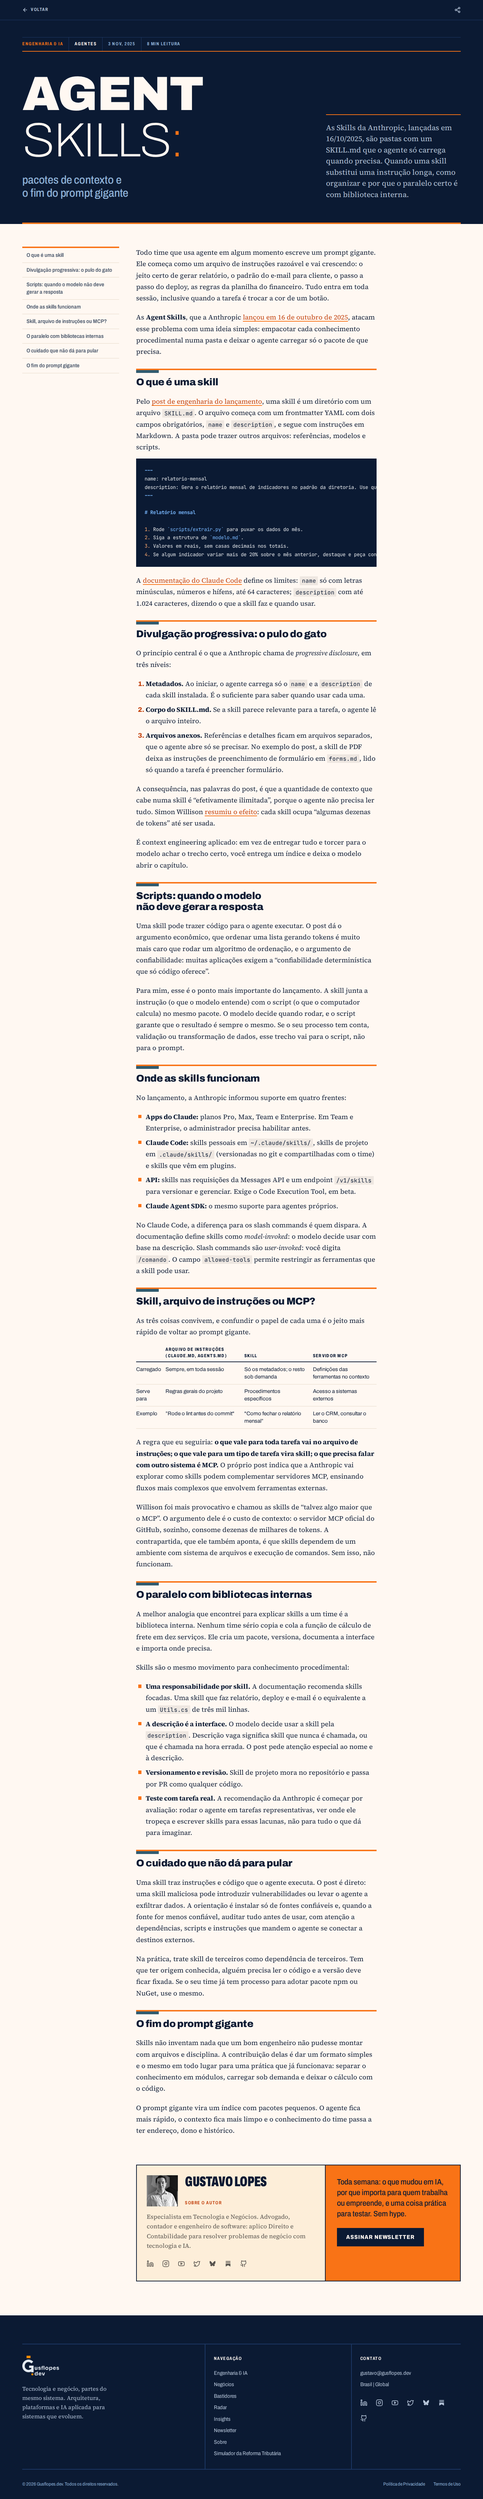
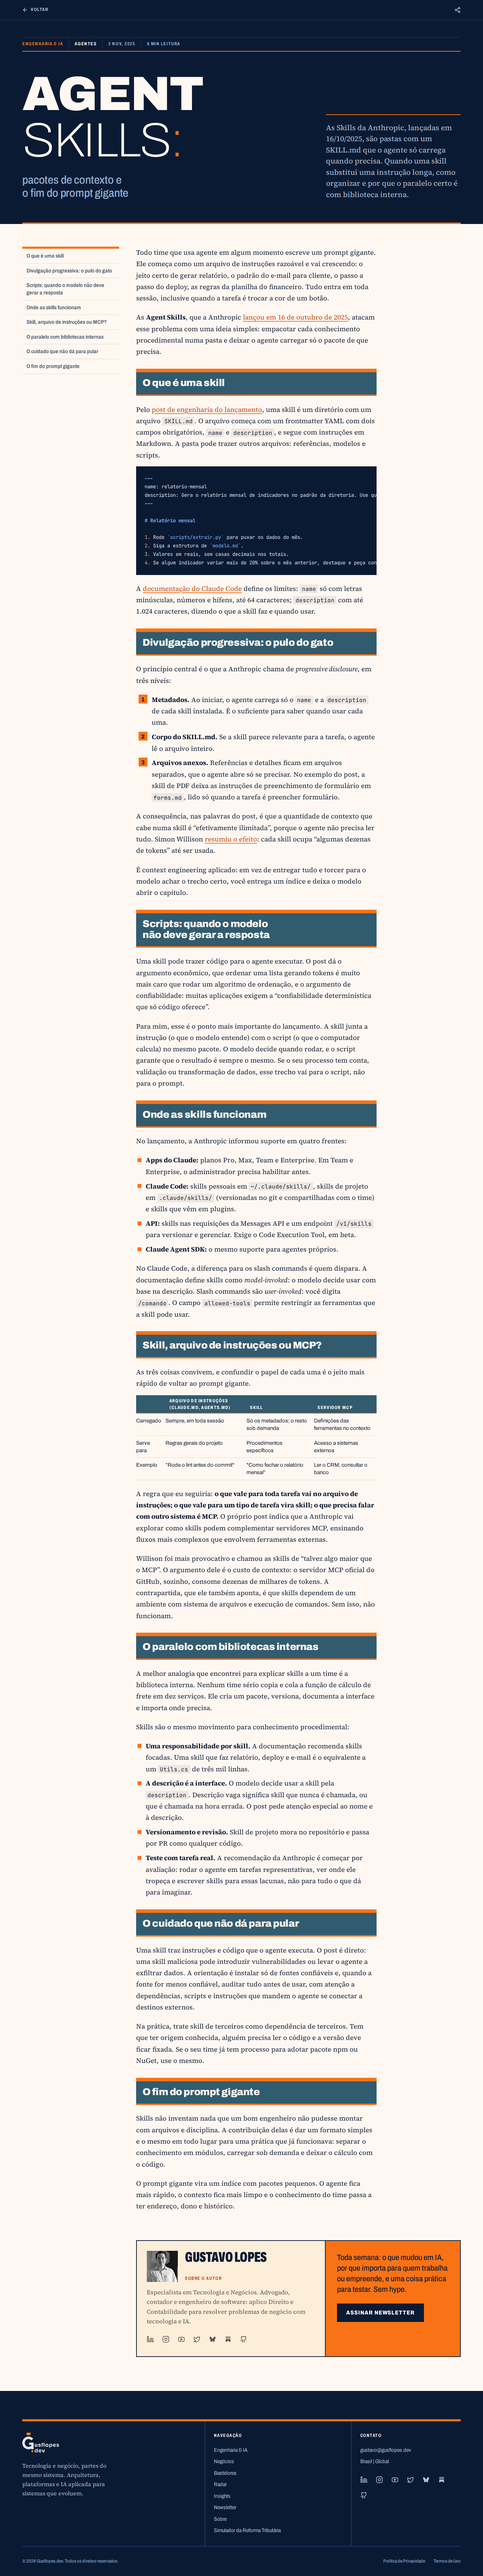
fix(design): cor do quadro e laranja no corpo do artigo
- H2 do artigo como célula no campo do quadro do eixo (o título é o conteúdo), topo laranja
  de 10px (8px no celular) e base de 4px; cabeçalho das tabelas no mesmo campo.
- Listas numeradas com número em chip laranja (azul-escuro sobre #F97316); marcadores maiores.
- Sumário: filete e topo do item corrente em 6px.
- Rodapé sem a célula da newsletter ganha filete laranja de 6px no topo.

Claude-Session: https://claude.ai/code/session_01G5QirRtrqW1g2QHV9fAH4M

Changed region(s): [[0.0307, 0.0, 0.9531, 0.9967], [0.0307, 0.9344, 0.2152, 0.9656]]

diff --git a/src/index.css b/src/index.css
@@ -535,31 +535,74 @@
     /* âncoras do sumário: o título não some sob a barra fixa de 56px */
     scroll-margin-top: 5rem;
   }
-  .leitura[data-eixo] :where(h2) {
-    border-top-width: 4px;
-  }
   /*
-   * Marca do eixo no H2 (rodada 5, revisão): um marco de cor estreito — barra de 4rem × 8px no
-   * campo do quadro do eixo do texto (EIXO_CAMPO em src/lib/eixos.ts), encostada embaixo do
-   * filete laranja de 4px, na ponta esquerda. Sem número: a ordem das seções já é a do texto.
+   * H2 como célula da grade (rodada 5, revisão 2): o título da seção é composto num campo chapado
+   * da cor do quadro do eixo do texto (EIXO_CAMPO em src/lib/eixos.ts), com topo laranja grosso.
+   * É conteúdo real (o título), não placa vazia nem número. Papel sobre petróleo escuro 7:1, sobre
+   * ferrugem 6,4:1; azul-escuro sobre ardósia clara 5,6:1. O cabeçalho das tabelas usa o mesmo campo.
    */
   .leitura[data-eixo] {
     --eixo-campo: var(--color-petroleo-escuro);
+    --eixo-texto: var(--papel);
   }
   .leitura[data-eixo="negocios"] {
     --eixo-campo: var(--color-ferrugem);
   }
   .leitura[data-eixo="bastidores"] {
     --eixo-campo: var(--color-ardosia-clara);
+    --eixo-texto: var(--azul);
   }
-  .leitura[data-eixo] :where(h2)::before {
-    content: "";
-    position: absolute;
-    top: 0;
-    left: 0;
-    width: 4rem;
-    height: 8px;
+  .leitura[data-eixo] :where(h2) {
     background: var(--eixo-campo);
+    color: var(--eixo-texto);
+    border-top: 8px solid var(--laranja);
+    padding: 0.55em 0.65em 0.6em;
+  }
+  @media (min-width: 1024px) {
+    .leitura[data-eixo] :where(h2) {
+      border-top-width: 10px;
+    }
+  }
+  .leitura[data-eixo] :where(h2) {
+    border-bottom: 4px solid var(--laranja);
+  }
+  /* Listas do artigo: número em chip laranja (azul-escuro sobre #F97316, 6,19:1); marcador quadrado maior. */
+  .leitura[data-eixo] :where(ol) {
+    list-style: none;
+    counter-reset: item;
+    padding-left: 2.3em;
+  }
+  .leitura[data-eixo] :where(ol > li) {
+    counter-increment: item;
+    position: relative;
+  }
+  .leitura[data-eixo] :where(ol > li)::before {
+    content: counter(item) / "";
+    position: absolute;
+    left: -2.3em;
+    top: 0.12em;
+    display: grid;
+    place-items: center;
+    width: 1.55em;
+    height: 1.55em;
+    background: var(--laranja);
+    color: var(--azul);
+    font-family: var(--font-sans);
+    font-weight: 800;
+    font-size: 0.85em;
+    font-variant-numeric: tabular-nums;
+  }
+  .leitura[data-eixo] :where(ul > li)::before {
+    width: 0.6em;
+    height: 0.6em;
+    top: 0.55em;
+    left: -1.2em;
+  }
+  .leitura[data-eixo] :where(thead th) {
+    background: var(--eixo-campo);
+    color: var(--eixo-texto);
+    border-bottom-color: var(--laranja);
+    padding-left: 0.8em;
   }
   .leitura :where(h3) {
     font-family: var(--font-sans);

diff --git a/src/components/Footer.tsx b/src/components/Footer.tsx
@@ -10,13 +10,14 @@ const link = 'text-ceu-claro hover:text-papel transition-colors';
  * Rodapé: grade de células azul com filetes azul-3 (o fundo nos vãos de 2px). A newsletter é uma
  * célula de creme com filete laranja de 6px no topo e só o botão chapado; onde ela existe, abre o
  * rodapé (no celular vem primeiro: claro → creme → azul). Nas páginas que já terminam com o plano
- * laranja da newsletter (textos e /newsletter) ela é omitida, para a mesma chamada não se repetir.
+ * laranja da newsletter (textos e /newsletter) ela é omitida, para a mesma chamada não se repetir,
+ * e o filete laranja de 6px passa para o topo da grade (a costura claro → noite continua marcada).
  */
 export function Footer({ comNewsletter = true }: { comNewsletter?: boolean }) {
   return (
     <footer className="campo-azul pb-8">
       <div className={`moldura !px-0 md:!px-[var(--gutter)] pt-14 md:pt-20 ${comNewsletter ? 'max-md:!pt-0' : ''}`}>
-        <div className={`grid grid-cols-1 md:grid-cols-2 lg:grid-cols-12 gap-[2px] bg-azul-3 border-y-2 border-azul-3 mb-8 ${comNewsletter ? 'max-md:border-t-0' : ''}`}>
+        <div className={`grid grid-cols-1 md:grid-cols-2 lg:grid-cols-12 gap-[2px] bg-azul-3 border-y-2 border-azul-3 mb-8 ${comNewsletter ? 'max-md:border-t-0' : 'border-t-[6px] border-t-laranja'}`}>
           <div className={`bg-azul ${comNewsletter ? 'lg:col-span-4' : 'lg:col-span-5'} px-[var(--gutter)] md:px-0 md:pr-8 py-8`}>
             <img src={logoLight} alt="Gusflopes.dev" width={1028} height={556} loading="lazy" className="h-14 w-auto mb-6" />
             <p className="font-serif text-[1rem] leading-relaxed text-ceu-claro max-w-[36ch]">

diff --git a/src/components/pages/ArtigoLeitura.tsx b/src/components/pages/ArtigoLeitura.tsx
@@ -146,7 +146,7 @@ export function ArtigoLeitura({ title, excerpt, category, eixo, dateFormatted, d
             */}
             {secoes.length >= 2 && (
               <nav aria-label="Seções do texto" className="hidden lg:block lg:col-start-1 lg:col-span-3 lg:row-start-1">
-                <ol className="sticky top-[calc(56px+2.5rem)] border-t-4 border-laranja">
+                <ol className="sticky top-[calc(56px+2.5rem)] border-t-[6px] border-laranja">
                   {secoes.map((s) => {
                     const corrente = s.slug === ativa;
                     return (
@@ -156,7 +156,7 @@ export function ArtigoLeitura({ title, excerpt, category, eixo, dateFormatted, d
                           aria-current={corrente ? 'location' : undefined}
                           className={`block px-3 py-2.5 font-sans font-semibold [font-stretch:87%] text-[0.9375rem] leading-snug transition-colors ${
                             corrente
-                              ? `${EIXO_CAMPO[eixo].campo} ${EIXO_CAMPO[eixo].texto} relative before:absolute before:inset-x-0 before:top-0 before:h-1 before:bg-laranja`
+                              ? `${EIXO_CAMPO[eixo].campo} ${EIXO_CAMPO[eixo].texto} relative before:absolute before:inset-x-0 before:top-0 before:h-1.5 before:bg-laranja`
                               : 'text-tinta-2 hover:text-azul hover:bg-papel-3'
                           }`}
                         >

diff --git a/DESIGN.md b/DESIGN.md
@@ -188,7 +188,7 @@ Estratégia **papel dominante, azul estrutura, laranja distribuído, quadro em c
 ### Quadro (paleta de apoio, aprovada em 04/10)
 Só como **campo chapado de bordas retas**, sempre com função (nada de campo sem texto como enchimento):
 - **Petróleo** (`#457183`): plano da pergunta dos eixos; papel sobre ele 5,1:1.
-- **Petróleo escuro** (`#315b6f`): célula de link do vídeo; campo do eixo Engenharia & IA (frase de apoio do hub, célula de data nas listas, item corrente do sumário e marca do H2 no artigo); papel sobre ele 7:1 (céu-claro reprova, 4,24:1).
+- **Petróleo escuro** (`#315b6f`): célula de link do vídeo; campo do eixo Engenharia & IA (frase de apoio do hub, célula de data nas listas, item corrente do sumário, H2 e cabeçalho de tabela no artigo); papel sobre ele 7:1 (céu-claro reprova, 4,24:1).
 - **Ferrugem** (`#8a4c1b`): campo do texto da Ferramenta, encostado na ardósia (quente com frio, os dois com conteúdo); campo do eixo Negócios; papel sobre ela 6,4:1. Encosta no laranja só com o filete azul-3 de 2px entre eles.
 - **Ardósia clara** (`#7f989a`): metadados e nota de cautela da Ferramenta; campo do eixo Bastidores; azul sobre ela 5,6:1. Ardósia `#648188` não leva texto pequeno (4,16:1 com azul).
 - **Areia** (`#aa9c87`): faixa de 12px no topo da célula mais larga dos temas (a célula em si é `#EEE7E1`: areia não é fundo de leitura).
@@ -263,7 +263,7 @@ Grades de células usam `gap: 2px` sobre um fundo (azul no papel, azul-3 no azul
 - **Serviços** (entender o que contratar): costura de filete laranja na largura da grade; abertura em escada à direita; as três ofertas descem em degraus a partir dela, cada uma com filete laranja de 2px e o começo marcado em azul de 6px. Só a primeira oferta (o diagnóstico) tem ação chapada; as outras duas são links `#C2410C` com seta. O campo de ferrugem sem texto que enchia o vão saiu; o último degrau ficou mais curto.
 - **Rodapé**: chega do papel de Serviços; células com filetes azul-3; a coluna da newsletter é uma célula de creme com filete laranja de 6px no topo e só o botão chapado. Onde existe, abre o rodapé (no celular vem primeiro: papel → creme → azul). Nas páginas que já terminam com o plano laranja da newsletter (textos e /newsletter) a célula é omitida.
 
-Hubs: cabeçalho azul com a abertura e a frase de apoio no campo do eixo (petróleo escuro na listagem geral; com a marca e o público no hub do eixo); índice sobre papel, cada linha aberta por filete laranja de 2px e com a célula de data no campo do eixo do texto (a do mais recente, sem filtro, é laranja). Artigo (texto único, igual nos dois briefs): costura laranja de 4px na passagem noite → papel; filete laranja sob os metadados e sobre a linha-fina; no desktop, a margem esquerda (3 colunas) é um sumário fixo com os títulos reais dos H2, aberto por filete laranja de 4px, a seção corrente no campo do quadro do eixo com topo laranja (`aria-current="location"`), sem rótulo visível e sem número; cada H2 tem filete laranja de 4px com a marca do eixo (barra de 4rem × 8px no campo do eixo) na ponta esquerda, também no celular, onde não há sumário; links sublinhados em `#F97316`; no fim, caixa do autor em creme e plano laranja da newsletter (no celular o plano vem antes e o creme fecha a página), e o rodapé omite a célula da newsletter.
+Hubs: cabeçalho azul com a abertura e a frase de apoio no campo do eixo (petróleo escuro na listagem geral; com a marca e o público no hub do eixo); índice sobre papel, cada linha aberta por filete laranja de 2px e com a célula de data no campo do eixo do texto (a do mais recente, sem filtro, é laranja). Artigo (texto único, igual nos dois briefs): costura laranja de 4px na passagem noite → papel; filete laranja sob os metadados e sobre a linha-fina; no desktop, a margem esquerda (3 colunas) é um sumário fixo com os títulos reais dos H2, aberto por filete laranja de 6px, a seção corrente no campo do quadro do eixo com topo laranja de 6px (`aria-current="location"`), sem rótulo visível e sem número; cada H2 é uma célula da grade no campo do eixo (o próprio título em papel, ou azul sobre ardósia), com topo laranja de 10px (8px no celular) e base de 4px; o cabeçalho das tabelas usa o mesmo campo; listas numeradas com o número num chip laranja (azul-escuro sobre `#F97316`) e marcadores quadrados de 0,6em; links sublinhados em `#F97316`; no fim, caixa do autor em creme e plano laranja da newsletter (no celular o plano vem antes e o creme fecha a página), e o rodapé omite a célula da newsletter e leva o filete laranja de 6px no topo.
 
 Header fixo de 72px; páginas de texto trocam o header por uma barra de 56px (voltar / compartilhar).
 
@@ -289,7 +289,7 @@ Cantos retos em tudo: botões, células, inputs, blocos de código, foto do auto
 ### Marcas (laranja de presença)
 - **`.marca`**: quadrado laranja sólido de 10px, ao lado do dia nas listas dos eixos, antes do "Mais recente" e do público no cabeçalho dos hubs.
 - **Filete laranja**: 2px no topo de cada linha dos hubs, das listas e das portas dos eixos, das ofertas, da partição dos temas e dos caminhos do 404; 4px nos H2 do artigo. Nunca borda em volta de célula.
-- **Marca do eixo no H2** (`.leitura[data-eixo] h2::before`): barra de 4rem × 8px no campo do eixo, sob a ponta esquerda do filete laranja de 4px.
+- **H2 do artigo** (`.leitura[data-eixo] h2`): célula no campo do eixo, topo laranja de 10px (8px no celular) e base de 4px; o título é o conteúdo do campo.
 - **Sumário do artigo** (desktop): títulos reais dos H2 na margem, fixo; seção corrente no campo do eixo com topo laranja.
 
 ### Chips (filtros)

diff --git a/.impeccable/surfaces/src-pages-index-astro.md b/.impeccable/surfaces/src-pages-index-astro.md
@@ -100,7 +100,7 @@ Refinamento (pendências dos revisores da v4):
 8. Quente com frio carregando conteúdo: na Ferramenta, ardósia clara (metadados + nota) encosta na ferrugem (texto + "Como funciona por dentro"); a areia foi para a célula larga dos temas.
 9. Esta página corrigida: o plano da pergunta dos eixos é petróleo, não laranja.
 
-Artigo (texto único, igual nos dois briefs): costura laranja de 4px na passagem noite → papel; filete laranja sob os metadados e sobre a linha-fina; no desktop, a margem esquerda (3 colunas) é um sumário fixo com os títulos reais dos H2, aberto por filete laranja de 4px, a seção corrente no campo do quadro do eixo com topo laranja (`aria-current="location"`), sem rótulo visível e sem número; cada H2 tem filete laranja de 4px com a marca do eixo (barra de 4rem × 8px no campo do eixo) na ponta esquerda, também no celular, onde não há sumário; links sublinhados em `#F97316`; no fim, caixa do autor em creme e plano laranja da newsletter (no celular o plano vem antes e o creme fecha a página), e o rodapé omite a célula da newsletter.
+Artigo (texto único, igual nos dois briefs): costura laranja de 4px na passagem noite → papel; filete laranja sob os metadados e sobre a linha-fina; no desktop, a margem esquerda (3 colunas) é um sumário fixo com os títulos reais dos H2, aberto por filete laranja de 6px, a seção corrente no campo do quadro do eixo com topo laranja de 6px (`aria-current="location"`), sem rótulo visível e sem número; cada H2 é uma célula da grade no campo do eixo (o próprio título em papel, ou azul sobre ardósia), com topo laranja de 10px (8px no celular) e base de 4px; o cabeçalho das tabelas usa o mesmo campo; listas numeradas com o número num chip laranja (azul-escuro sobre `#F97316`) e marcadores quadrados de 0,6em; links sublinhados em `#F97316`; no fim, caixa do autor em creme e plano laranja da newsletter (no celular o plano vem antes e o creme fecha a página), e o rodapé omite a célula da newsletter e leva o filete laranja de 6px no topo.
 
 Medido (`medir-cor.cjs`, v4 → v5): home desktop laranja 4,4% → 3,3% (janelas ≥ 0,5%: 100% → 100%), quadro ≥ 3% 92% → 67%, escuro 32% → 31%; home celular laranja 7,5% → 3,3%, quadro 42% → 50%; insights desktop quadro 8% → 92%; artigo desktop laranja nas janelas 14% → 100%, quadro 0% → 86%; artigo celular 36% → 96% e 0% → 70%. Os 400px acima do rodapé ficam ≥ 56% claros em todos os modelos. axe sem falha séria em 10 rotas × 2 larguras.
 
@@ -112,3 +112,4 @@ Medido (`medir-cor.cjs`, v4 → v5): home desktop laranja 4,4% → 3,3% (janelas
 5. Temas: a célula larga é `#EEE7E1` com faixa de areia de 12px no topo (areia não é fundo de leitura).
 6. Vídeo: título e célula azul em duas faixas de largura total, na altura do conteúdo.
 Opcional: texto secundário sobre creme aquecido para `#57534E` (6,7:1 no creme, 6,1:1 em `#EEE7E1`).
+7. Artigo, segunda revisão: sem voltar às placas, a cor do quadro entra no próprio H2 (célula no campo do eixo, topo laranja) e no cabeçalho das tabelas; listas numeradas em chip laranja; rodapé dos textos com filete laranja de 6px no topo.

diff --git a/.impeccable/surfaces/src-pages-insights-article-id-astro.md b/.impeccable/surfaces/src-pages-insights-article-id-astro.md
@@ -39,4 +39,4 @@ FINISH: unreviewed and undocumented is unfinished; this build ends with the fini
 
 - Claros da Shelfye: corpo sobre papel `#FFF8F2`, caixa do autor em creme `#FDEED9`, fio `#E6D9C8`, hover de linha `#F9F2EC` (o `#C2410C` mantém AA), código inline em `#EEE7E1`.
 - Hubs: célula de data no campo do quadro do eixo do texto (`EIXO_CAMPO`: petróleo escuro, ferrugem, ardósia clara); o mais recente segue laranja. Frase de apoio do hub no campo do eixo.
-- Artigo (texto único, igual nos dois briefs): costura laranja de 4px na passagem noite → papel; filete laranja sob os metadados e sobre a linha-fina; no desktop, a margem esquerda (3 colunas) é um sumário fixo com os títulos reais dos H2, aberto por filete laranja de 4px, a seção corrente no campo do quadro do eixo com topo laranja (`aria-current="location"`), sem rótulo visível e sem número; cada H2 tem filete laranja de 4px com a marca do eixo (barra de 4rem × 8px no campo do eixo) na ponta esquerda, também no celular, onde não há sumário; links sublinhados em `#F97316`; no fim, caixa do autor em creme e plano laranja da newsletter (no celular o plano vem antes e o creme fecha a página), e o rodapé omite a célula da newsletter.
+- Artigo (texto único, igual nos dois briefs): costura laranja de 4px na passagem noite → papel; filete laranja sob os metadados e sobre a linha-fina; no desktop, a margem esquerda (3 colunas) é um sumário fixo com os títulos reais dos H2, aberto por filete laranja de 6px, a seção corrente no campo do quadro do eixo com topo laranja de 6px (`aria-current="location"`), sem rótulo visível e sem número; cada H2 é uma célula da grade no campo do eixo (o próprio título em papel, ou azul sobre ardósia), com topo laranja de 10px (8px no celular) e base de 4px; o cabeçalho das tabelas usa o mesmo campo; listas numeradas com o número num chip laranja (azul-escuro sobre `#F97316`) e marcadores quadrados de 0,6em; links sublinhados em `#F97316`; no fim, caixa do autor em creme e plano laranja da newsletter (no celular o plano vem antes e o creme fecha a página), e o rodapé omite a célula da newsletter e leva o filete laranja de 6px no topo.
